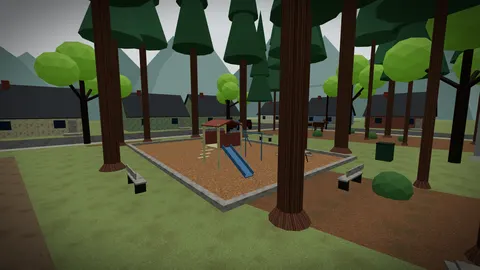
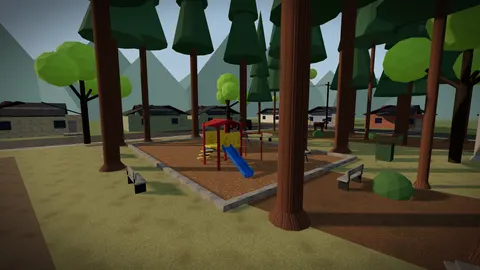
Moose from the owner's corner photos: cedar row along Arrow Dr, tire tunnel to the south-east as four separate tires, double birch and maroon sign, red/yellow play unit with two slides, dry winter ground, low hip roofs, clear winter light; fix the sun's position and shadows on every map
Claude-Session: https://claude.ai/code/session_013cEUyKFWfXQwnZSdKsgxWE

diff --git a/src/maps.js b/src/maps.js
@@ -611,9 +611,16 @@
       box(o, P(0, 0.76, 0), v3(0.9, 0.035, 0.38), 'oldWood', ry); for (const w of [-0.68, 0.68]) box(o, P(0, 0.45, w), v3(0.9, 0.03, 0.15), 'oldWood', ry);
       for (const u of [-0.65, 0.65]) for (const w of [-0.6, 0.6]) pipe(o, P(u, 0, w), P(u, 0.74, w * 0.3), 0.025, 'darkMetal'); };
     const house = (x, z, W, D, ry, col) => { const o = O('House', 'building', { tall: 6 }), c = Math.cos(ry), s = Math.sin(ry), P = (u, y, w) => v3(x + u * c + w * s, y, z - u * s + w * c), H = 2.9;
-      box(o, P(0, H / 2, 0), v3(W / 2, H / 2, D / 2), col, ry); const sq = D / 2 / Math.SQRT2; box(o, P(0, H, 0), v3(W / 2, sq, sq), col, ry, Math.PI / 4);   // the gable fill
-      const e = D / 2 + 0.5, dl = Math.hypot(e, e) / 2; for (const sgn of [-1, 1]) box(o, P(0, H + D / 2 - e / 2 + 0.05, sgn * e / 2), v3(W / 2 + 0.35, 0.07, dl), 'roofDark', ry, sgn * Math.PI / 4);
-      box(o, P(W * 0.25, H + D / 2 - 0.4, -0.6), v3(0.3, 0.9, 0.3), 'brick', ry);   // chimney
+      box(o, P(0, H / 2, 0), v3(W / 2, H / 2, D / 2), col, ry);
+      if (style.lowRoof) {   // Moose (the owner's photos, 2026-11-19): low single-storey ranch houses under a shallow hip roof (22°)
+        const th = 22 * Math.PI / 180, tn = Math.tan(th), rise = D / 2 * tn, L = D / 2 + 0.5, Le = D / 2 + 0.35;
+        box(o, P(0, H + rise * 0.3, 0), v3(W / 2 - D * 0.3, rise * 0.3, D * 0.3), col, ry);   // the attic fill, hidden under the roof
+        for (const sgn of [-1, 1]) box(o, P(0, H + rise - L / 2 * tn + 0.05, sgn * L / 2), v3(Math.max(0.5, W / 2 - D / 2 + Le / 2), 0.07, L / (2 * Math.cos(th))), 'roofDark', ry, sgn * th);
+        for (const sgn of [-1, 1]) box(o, P(sgn * (W / 2 - D / 2 + Le / 2), H + rise - Le / 2 * tn + 0.05, 0), v3(Le / (2 * Math.cos(th)), 0.07, D / 2 + 0.5), 'roofDark', ry, 0, -sgn * th);
+        box(o, P(W * 0.25, H + rise * 0.7, -0.6), v3(0.3, 0.7, 0.3), 'brick', ry);
+      } else { const sq = D / 2 / Math.SQRT2; box(o, P(0, H, 0), v3(W / 2, sq, sq), col, ry, Math.PI / 4);   // the gable fill
+        const e = D / 2 + 0.5, dl = Math.hypot(e, e) / 2; for (const sgn of [-1, 1]) box(o, P(0, H + D / 2 - e / 2 + 0.05, sgn * e / 2), v3(W / 2 + 0.35, 0.07, dl), 'roofDark', ry, sgn * Math.PI / 4);
+        box(o, P(W * 0.25, H + D / 2 - 0.4, -0.6), v3(0.3, 0.9, 0.3), 'brick', ry); }   // chimney
       for (const w of [-1, 1]) for (const u of [-W / 4, W / 4]) box(o, P(u, 1.6, w * (D / 2 + 0.02)), v3(0.6, 0.55, 0.02), 'glass', ry, 0, 0, { noCollide: true });
       box(o, P(-W / 2 + 1.2, 1.05, -(D / 2 + 0.03)), v3(0.45, 1.05, 0.03), 'oldWood', ry, 0, 0, { noCollide: true });
       box(o, P(-W / 2 + 1.2, 0.15, -(D / 2 + 0.9)), v3(1, 0.15, 0.8), 'oldWood', ry);   // a small deck at the door
@@ -640,10 +647,12 @@
     // ---- ground: the park's needle-covered floor, the two grass lanes (rotated), worn dirt paths, the streets, driveways
     zones.push({ shape: 'zone', mat: 'duff', c: v3(0, 0.004, 0), h: v3(PX, 0, PZ) });
     const lanes = [{ c: v3(-2, 0.005, -11), len: 47, w: 6.5, ry: 0.16 }, { c: v3(-4, 0.005, 9), len: 46, w: 8, ry: 0.21 }];
-    for (const L of lanes) zones.push({ shape: 'zone', mat: 'grass', c: L.c, h: v3(L.len, 0, L.w), ry: L.ry });
-    zones.push({ shape: 'zone', mat: 'grass', c: v3(-36, 0.005, 0), h: v3(9, 0, 12) });                       // open ground round the playground
+    for (const L of lanes) zones.push({ shape: 'zone', mat: 'dryGrass', c: L.c, h: v3(L.len, 0, L.w), ry: L.ry });   // dry, patchy winter lawn (the owner's photos, 2026-11-19)
+    zones.push({ shape: 'zone', mat: 'dryGrass', c: v3(-36, 0.005, 0), h: v3(9, 0, 12) });                       // open ground round the playground
     zones.push({ shape: 'zone', mat: 'path', c: v3(-4, 0.006, 6.5), h: v3(40, 0, 0.6), ry: 0.2 });           // the worn trail along the south lane
     zones.push({ shape: 'zone', mat: 'path', c: v3(10, 0.006, -9), h: v3(26, 0, 0.5), ry: 0.12 });
+    zones.push({ shape: 'zone', mat: 'leafLitter', c: v3(37, 0.0055, 15), h: v3(10, 0, 9) }); zones.push({ shape: 'zone', mat: 'leafLitter', c: v3(-40, 0.0055, -17), h: v3(6, 0, 6.5) });   // fallen leaves at the birch corners
+    zones.push({ shape: 'zone', mat: 'path', c: v3(38.4, 0.0062, 17.4), h: v3(4, 0, 2.6), ry: -0.45 });   // the bare dirt mound under the tires
     zones.push({ shape: 'zone', mat: 'woodchip', c: v3(-35, 0.007, 1), h: v3(8, 0, 5.5) });
     zones.push({ shape: 'zone', mat: 'asphalt', c: v3(0, 0.003, -30), h: v3(90, 0, 4) });                     // Arrow Dr
     zones.push({ shape: 'zone', mat: 'asphalt', c: v3(-52, 0.003, 0), h: v3(4, 0, 70) });                     // Park Dr
@@ -651,7 +660,7 @@
     const inLane = (x, z, pad = 0) => lanes.some(L => { const dx = x - L.c.x, dz = z - L.c.z, c = Math.cos(L.ry), s = Math.sin(L.ry), u = dx * c - dz * s, w = dx * s + dz * c; return Math.abs(u) < L.len + pad && Math.abs(w) < L.w + pad; });
     // ---- trees. Conifers: a flared trunk bare for the first few metres, then stacked drooping cones. Over/under under the
     // lowest boughs; slim trunks are poles to orbit. Flying into the middle of a crown hits it; brushing its edge does not.
-    const trees = [], houses = [], { conifer, birch, shade, picnic, house, truck } = natureKit(K, rr, rnd, trees, houses, { tall: true });
+    const trees = [], houses = [], { conifer, birch, shade, picnic, house, truck } = natureKit(K, rr, rnd, trees, houses, { tall: true, lowRoof: true });
     const clear = (x, z, d) => trees.every(t => Math.hypot(t.x - x, t.z - z) > d + t.r);
     const keepOut = [[-35, 1, 10.5], [-24, 8, 3.5], [36, -12, 4.5], [-41, -19, 4]];   // playground, the spawn, the tire tunnel, the sign
     const free = (x, z) => keepOut.every(([a, b, r]) => Math.hypot(x - a, z - b) > r);
@@ -679,36 +688,32 @@
     // the small multi-play unit: tan posts, a deck 1.2 m up under a faded red roof, steps on the west, a faded blue slide
     // east, and a short run of climbing bars on the north side
     together(() => { const cx = -31.6, cz = 3.4, D = 1.2, o = O('Play Unit', 'deco');
-      for (const [a, b] of [[-0.8, -0.8], [0.8, -0.8], [-0.8, 0.8], [0.8, 0.8]]) box(o, v3(cx + a, 1.3, cz + b), v3(0.055, 1.3, 0.055), 'playTan');
-      box(o, v3(cx, D, cz), v3(0.8, 0.04, 0.8), 'playTan');
+      for (const [a, b] of [[-0.8, -0.8], [0.8, -0.8], [-0.8, 0.8], [0.8, 0.8]]) box(o, v3(cx + a, 1.3, cz + b), v3(0.055, 1.3, 0.055), 'playRed');
+      box(o, v3(cx, D, cz), v3(0.8, 0.04, 0.8), 'playYellow');
       O('Under the Play Unit', 'gap', { gap: { c: v3(cx, D / 2, cz), n: v3(1, 0, 0), hu: 0.72, hv: D / 2 - 0.05, u: v3(0, 0, 1) } }); O('Under the Play Unit', 'gap', { gap: { c: v3(cx, D / 2, cz), n: v3(0, 0, 1), hu: 0.72, hv: D / 2 - 0.05, u: v3(1, 0, 0) } });
       const roof = O('Play Unit Roof', 'overunder', { obstacle: { a: v3(cx - 0.95, 0, cz), b: v3(cx + 0.95, 0, cz), under: 2.5, over: 2.85 } });
-      box(roof, v3(cx, 2.62, cz - 0.42), v3(0.95, 0.03, 0.5), 'fadedRed', 0, -0.35); box(roof, v3(cx, 2.62, cz + 0.42), v3(0.95, 0.03, 0.5), 'fadedRed', 0, 0.35);   // peaked (the tilts were the wrong way round: a V)
-      for (const s of [-1, 1]) box(o, v3(cx + s * 0.8, D + 0.45, cz), v3(0.03, 0.4, 0.75), 'fadedRed');   // side panels
-      for (let i = 0; i < 4; i++) box(o, v3(cx - 1.0 - i * 0.28, D - (i + 1) * 0.28 + 0.1, cz + 0.3), v3(0.14, 0.03, 0.42), 'playTan');   // steps down to the west
+      box(roof, v3(cx, 2.62, cz - 0.42), v3(0.95, 0.03, 0.5), 'playRed', 0, -0.35); box(roof, v3(cx, 2.62, cz + 0.42), v3(0.95, 0.03, 0.5), 'playRed', 0, 0.35);   // peaked (the tilts were the wrong way round: a V)
+      for (const s of [-1, 1]) box(o, v3(cx + s * 0.8, D + 0.45, cz), v3(0.03, 0.4, 0.75), 'playYellow');   // side panels
+      for (let i = 0; i < 4; i++) box(o, v3(cx - 1.0 - i * 0.28, D - (i + 1) * 0.28 + 0.1, cz + 0.3), v3(0.14, 0.03, 0.42), 'playYellow');   // steps down to the west
       const ang = 0.55, L = D / Math.sin(ang), sl = O('Slide', 'deco');
-      box(sl, v3(cx + 0.8 + Math.cos(ang) * L / 2, D / 2 + 0.04, cz + 0.3), v3(L / 2, 0.03, 0.26), 'fadedBlue', 0, 0, -ang);
-      for (const s of [-1, 1]) box(sl, v3(cx + 0.8 + Math.cos(ang) * L / 2, D / 2 + 0.16, cz + 0.3 + s * 0.27), v3(L / 2, 0.1, 0.02), 'fadedBlue', 0, 0, -ang);
-      bar('Climbing Bars', v3(cx - 0.8, 1.9, cz - 0.95), v3(cx - 0.8, 1.9, cz - 2.6), 0.03, 'fadedBlue'); bar('Climbing Bars', v3(cx + 0.8, 1.9, cz - 0.95), v3(cx + 0.8, 1.9, cz - 2.6), 0.03, 'fadedBlue');
-      const cb = O('Climbing Bars', 'deco'); for (const s of [-0.8, 0.8]) pipe(cb, v3(cx + s, 0, cz - 2.6), v3(cx + s, 1.9, cz - 2.6), 0.035, 'fadedBlue'); for (let i = 1; i < 6; i++) pipe(cb, v3(cx - 0.8, 1.9, cz - 0.95 - i * 0.28), v3(cx + 0.8, 1.9, cz - 0.95 - i * 0.28), 0.018, 'galv'); });
+      box(sl, v3(cx + 0.8 + Math.cos(ang) * L / 2, D / 2 + 0.04, cz + 0.3), v3(L / 2, 0.03, 0.26), 'slideBlue', 0, 0, -ang);
+      for (const s of [-1, 1]) box(sl, v3(cx + 0.8 + Math.cos(ang) * L / 2, D / 2 + 0.16, cz + 0.3 + s * 0.27), v3(L / 2, 0.1, 0.02), 'slideBlue', 0, 0, -ang);
+      box(sl, v3(cx - 0.8 - Math.cos(ang) * L / 2, D / 2 + 0.04, cz - 0.35), v3(L / 2, 0.03, 0.26), 'slideBlue', 0, 0, ang);   // the second slide, the other way (two blue slides, as now)
+      for (const s of [-1, 1]) box(sl, v3(cx - 0.8 - Math.cos(ang) * L / 2, D / 2 + 0.16, cz - 0.35 + s * 0.27), v3(L / 2, 0.1, 0.02), 'slideBlue', 0, 0, ang);
+      bar('Climbing Bars', v3(cx - 0.8, 1.9, cz - 0.95), v3(cx - 0.8, 1.9, cz - 2.6), 0.03, 'playRed'); bar('Climbing Bars', v3(cx + 0.8, 1.9, cz - 0.95), v3(cx + 0.8, 1.9, cz - 2.6), 0.03, 'playRed');
+      const cb = O('Climbing Bars', 'deco'); for (const s of [-0.8, 0.8]) pipe(cb, v3(cx + s, 0, cz - 2.6), v3(cx + s, 1.9, cz - 2.6), 0.035, 'playRed'); for (let i = 1; i < 6; i++) pipe(cb, v3(cx - 0.8, 1.9, cz - 0.95 - i * 0.28), v3(cx + 0.8, 1.9, cz - 0.95 - i * 0.28), 0.018, 'galv'); });
     // ---- picnic tables (wood on a dark metal frame), benches, bear-resistant bins, the park sign and a carved moose
     picnic(-29.2, -0.6, 0.1); picnic(-21, 5.5, 0.3); picnic(-9, -9, -0.2); picnic(12, 3.5, 0.15); picnic(26, -12.5, 0.4);
     // benches round the playground, 1.8 m outside its timber border, each facing in (owner, 2026-11-19: they stood in it)
     for (const [x, z, ry] of [[-39, 8.3, Math.PI], [-31, 8.3, Math.PI], [-37, -6.3, 0], [-25.2, 1, -Math.PI / 2], [4, -10.4, 0.15]]) { const b = O('Bench', 'deco'), c = Math.cos(ry), s = Math.sin(ry);
-      box(b, v3(x, 0.44, z), v3(0.9, 0.03, 0.2), 'oldWood', ry); box(b, v3(x - s * 0.18, 0.75, z - c * 0.18), v3(0.9, 0.12, 0.025), 'oldWood', ry); for (const u of [-0.7, 0.7]) box(b, v3(x + u * c, 0.22, z - u * s), v3(0.03, 0.22, 0.2), 'darkMetal', ry); }
-    for (const [x, z] of [[-25.6, -5.8], [-44.4, 7.9], [30.5, -9.5], [0, -23]]) { const b = O('Bear Bin', 'deco'); box(b, v3(x, 0.55, z), v3(0.42, 0.55, 0.38), 'binGreen'); box(b, v3(x, 1.13, z), v3(0.44, 0.04, 0.4), 'darkMetal'); }
-    { const sg = O('Park Sign', 'deco'), x = -41, z = -21.5; for (const s of [-1, 1]) pipe(sg, v3(x + s * 1.1, 0, z), v3(x + s * 1.1, 1.5, z), 0.09, 'oldWood');
-      box(sg, v3(x, 1.15, z), v3(1.35, 0.32, 0.05), 'mooseSign', 0, 0, 0, { sign: true }); box(sg, v3(x, 1.52, z), v3(1.5, 0.05, 0.14), 'oldWood'); }
+      box(b, v3(x, 0.44, z), v3(0.9, 0.03, 0.2), 'oldWood', ry); box(b, v3(x - s * 0.18, 0.75, z - c * 0.18), v3(0.9, 0.12, 0.025), 'oldWood', ry); for (const u of [-0.7, 0.7]) { box(b, v3(x + u * c, 0.22, z - u * s), v3(0.03, 0.22, 0.2), 'darkMetal', ry); box(b, v3(x + u * c - s * 0.2, 0.65, z - u * s - c * 0.2), v3(0.03, 0.22, 0.02), 'darkMetal', ry); } }   /* uprights hold the backrest (it floated over the seat) */
+    for (const [x, z] of [[-25.6, -5.8], [-44.4, 7.9], [30.5, -9.5], [0, -18.6]]) { const b = O('Bear Bin', 'deco'); box(b, v3(x, 0.55, z), v3(0.42, 0.55, 0.38), 'binGreen'); box(b, v3(x, 1.13, z), v3(0.44, 0.04, 0.4), 'darkMetal'); }
+    { const sg = O('Park Sign', 'deco'), x = -41, z = -21.5; for (const s of [-1, 1]) pipe(sg, v3(x + s * 0.64, 0, z), v3(x + s * 0.64, 2.35, z), 0.035, 'galv');   // two metal posts, a maroon and gold panel up high (the owner's photo)
+      box(sg, v3(x, 1.88, z - 0.05), v3(0.6, 0.4, 0.025), 'mooseSign', 0, 0, 0, { sign: true }); }
     { const m = O('Carved Moose', 'deco'), x = -38.2, z = -20.6;   // a chainsaw-carved cedar moose by the sign
       box(m, v3(x, 1.25, z), v3(0.8, 0.38, 0.32), 'carvedCedar'); for (const [a, b] of [[-0.6, -0.2], [-0.6, 0.2], [0.55, -0.2], [0.55, 0.2]]) pipe(m, v3(x + a, 0, z + b), v3(x + a, 0.95, z + b), 0.08, 'carvedCedar');
       pipe(m, v3(x + 0.7, 1.4, z), v3(x + 1.05, 1.75, z), 0.15, 'carvedCedar'); box(m, v3(x + 1.25, 1.65, z), v3(0.3, 0.13, 0.12), 'carvedCedar', 0, 0, -0.3);
       for (const s of [-1, 1]) box(m, v3(x + 1.0, 2.05, z + s * 0.38), v3(0.18, 0.04, 0.3), 'carvedCedar', s * 0.3, s * 0.5); }
-    // ---- the tire tunnel (east): four tractor tires half buried in a row among birch and bracken, a small sign post
-    together(() => { const x0 = 34.5, z = -12, R = 0.82, t = 0.24, o = O('Tire Tunnel', 'overunder', { obstacle: { a: v3(x0, 0, z - R), b: v3(x0 + 3, 0, z - R), under: R - t, over: R + t } });
-      for (let i = 0; i < 4; i++) { const x = x0 + i * 0.95 + (i === 2 ? 0.15 : 0); const N = 11, Rm = R - t / 2; for (let k = 0; k < N; k++) { const am = (k + 0.5) / N * Math.PI;   // a wide tread band, buried below the ground at both ends
-          box(o, v3(x, Math.sin(am) * Rm - 0.12, z + Math.cos(am) * Rm), v3(0.27, Math.PI * Rm / N / 2 + 0.02, t / 2), 'tireTread', 0, -am); } }
-      O('Tire Tunnel opening', 'gap', { gap: { c: v3(x0 + 1.45, 0.3, z), n: v3(1, 0, 0), hu: R - t - 0.05, hv: 0.3, u: v3(0, 0, 1) } });
-      const sp = O('Sign Post', 'pole'); pipe(sp, v3(x0 + 2.5, 0, z - 1.6), v3(x0 + 2.5, 1.6, z - 1.6), 0.04, 'galv'); box(sp, v3(x0 + 2.5, 1.55, z - 1.6), v3(0.16, 0.16, 0.01), 'signWhite', 0, 0, 0, { noCollide: true }); });
     // ---- round the edges: Arrow Dr and Park Dr with houses across them, back fences and houses east and south, wooden
     // power poles, a few parked pickups
     const colors = ['houseSage', 'houseTan', 'houseBlue', 'houseCream', 'houseRed'];
@@ -733,6 +738,25 @@
         for (const [y, a, L] of [[9, 0.4, 1.4], [12.5, 2.6, 1.0], [15, 4.4, 1.6], [18, 1.5, 0.9]]) pipe(o, v3(x, y, z), v3(x + Math.cos(a) * L, y + L * 0.35, z + Math.sin(a) * L), 0.05, 'snagWood', { noSurvey: true });
         trees.push({ x, z, r: 1 }); } }
       for (const [x, z, h] of [[-47.5, 9.5, 11], [-22.5, -8.5, 12], [-46.5, -8.0, 10], [-19.5, 3.5, 11], [-10, 12.5, 12], [6, -21, 11], [20, 10.5, 12], [-2, 16, 10]]) if (clear(x, z, 1.0)) N2.shade(x, z, h); }
+    // ---- after the owner's photos from the four corners (2026-11-19). The roads make an L round the north-west corner (Arrow Dr
+    // along the long north side, Park Dr along the short west side). Along Arrow Dr a straight row of big redcedars whose crowns
+    // touch; the tire tunnel is in the far south-east corner, four tires as separate half-buried arches on a dirt mound under
+    // the birches; a double birch stands by the sign. The trees that stood where these go are taken out (the grove's random
+    // draws are unchanged, so every other tree keeps its place).
+    { const gone = (x, z) => (z < -19.6 && x > -37 && x < 47) || Math.hypot(x - 38.4, z - 17.4) < 4.6 || Math.hypot(x + 43.6, z + 19.2) < 1.6;
+      const at = o => { const v = o.vis[0]; return v ? (v.a || v.c) : o.gap ? o.gap.c : null; };
+      for (const o of K.objs) { if (o.removed || !/^(Cedar|Hemlock|Birch|Split Birch|Split Birch opening|Maple|Shrub|Bracken|Stump|Mossy Log)$/.test(o.name) || o.grp != null) continue;
+        const c = at(o); if (!c || !gone(c.x, c.z)) continue; o.prims = []; o.vis = []; delete o.obstacle; delete o.round; delete o.gap; o.kind = 'deco'; o.removed = true; }
+      for (let i = trees.length - 1; i >= 0; i--) if (gone(trees[i].x, trees[i].z)) trees.splice(i, 1);
+      let sd = 3141; const r3 = () => { sd = (sd * 1664525 + 1013904223) >>> 0; return sd / 4294967296; }, g3 = (a, b) => a + (b - a) * r3();
+      const row = natureKit(K, g3, r3, trees, houses, {});   // full, low crowns: the roadside cedars' boughs come down to 4-6 m
+      for (let x = -34; x <= 44; x += g3(5.2, 6.2)) { const z = -22.2 + g3(-0.4, 0.4); if (trees.some(t => Math.hypot(t.x - x, t.z - z) < 2.4)) continue; row.conifer(x, z, g3(26, 33), g3(0.45, 0.6), 'cedar'); }
+      row.birch(-43.6, -19.2, 13, true);   // the double birch by the sign
+      together(() => { const R = 0.82, t = 0.24, Rm = R - t / 2, N = 11;   // the tire tunnel: four tractor tires, each its own arch
+        for (const [x, z] of [[36.2, 16.0], [37.9, 16.15], [39.5, 17.6], [40.9, 19.3]]) { const o = O('Tire', 'overunder', { obstacle: { a: v3(x - 0.3, 0, z), b: v3(x + 0.3, 0, z), under: R - t, over: R + t } });
+          for (let k = 0; k < N; k++) { const am = (k + 0.5) / N * Math.PI; box(o, v3(x, Math.sin(am) * Rm - 0.12, z + Math.cos(am) * Rm), v3(0.27, Math.PI * Rm / N / 2 + 0.02, t / 2), 'tireTread', 0, -am); }
+          O('Tire opening', 'gap', { gap: { c: v3(x, 0.18, z), n: v3(1, 0, 0), hu: 0.25, hv: 0.15, u: v3(0, 0, 1) } }); }   // inside the arch (its inner edge is 0.58 m round a centre 0.12 m underground)
+        const sp = O('Sign Post', 'pole'); pipe(sp, v3(37, 0, 13.9), v3(37, 1.6, 13.9), 0.04, 'galv'); box(sp, v3(37, 1.55, 13.9), v3(0.16, 0.16, 0.01), 'signWhite', 0, 0, 0, { noCollide: true }); }); }
     return K.done({ id: 'moose', title: 'Moose Knuckle Park', theme: 'pnw', zones, spawn: { pos: v3(-24, 0.03, 8), yaw: -1.4 }, bounds: { x: [-75, 75], z: [-55, 50] } });
   }
 

diff --git a/src/worldview.js b/src/worldview.js
@@ -323,20 +323,26 @@ function mats() {
     TX.woodchip = T('#7b5638', ['#a07450', '#5a3c26', '#8e6a4a', '#c09068'], 9000, 2, 5, 0.6);
     TX.path = T('#6e5a46', ['#5a4836', '#857059', '#4a3c30'], 9000, 1, 3, 0.5, 'rgba(40,30,20,A)');
     TX.gravel = T('#8a8478', ['#a39c90', '#6a655c', '#c0b8a8'], 12000, 1, 3, 0.6);
+    TX.dryGrass = T('#8a8152', ['#9e9060', '#6f7044', '#7a6548', '#b0a070', '#5f6a3e'], 16000, 1, 3, 0.55, 'rgba(100,80,50,A)');   // winter lawn: dry, patchy, bare dirt showing
+    TX.leafLitter = T('#4e3a2a', ['#7a5634', '#5e4228', '#2e2018', '#8e6a3e', '#a8925e', '#3e4a26'], 9000, 3, 7, 0.7, 'rgba(40,50,30,A)');   // fallen birch and cottonwood leaves on moss
     TX.cedarBark = (() => { [c, g] = cnv(128, 256); g.fillStyle = '#6a4434'; g.fillRect(0, 0, 128, 256); for (let i = 0; i < 70; i++) { g.fillStyle = ['rgba(40,24,16,0.55)', 'rgba(150,110,85,0.35)', 'rgba(90,60,45,0.5)'][i % 3]; g.fillRect(rnd() * 128, 0, 1 + rnd() * 4, 256); } return tex(c); })();
     TX.birchBark = (() => { [c, g] = cnv(128, 256); g.fillStyle = '#ddd8cc'; g.fillRect(0, 0, 128, 256); for (let i = 0; i < 60; i++) { g.fillStyle = 'rgba(30,28,26,' + (0.4 + rnd() * 0.5) + ')'; g.fillRect(rnd() * 128, rnd() * 256, 4 + rnd() * 18, 1 + rnd() * 3); } return tex(c); })();
     TX.oldWood = T('#8c8278', ['#6e655c', '#a69c90', '#5a524a'], 6000, 1, 2, 0.4, 'rgba(50,45,40,A)');
     TX.tireTread = (() => { [c, g] = cnv(64, 256); g.fillStyle = '#1e1e1e'; g.fillRect(0, 0, 64, 256); g.fillStyle = '#0c0c0c'; for (let y = 0; y < 256; y += 16) { g.fillRect(0, y, 28, 8); g.fillRect(36, y + 8, 28, 8); } return tex(c); })();
-    TX.mooseSign = (() => { [c, g] = cnv(512, 128); g.fillStyle = '#5a3a24'; g.fillRect(0, 0, 512, 128); speckle(g, 512, 128, 3000, ['#3e2818', '#7a5434'], 1, 3, 0.4); g.strokeStyle = '#3a2416'; g.lineWidth = 8; g.strokeRect(6, 6, 500, 116);
-      g.fillStyle = '#e8c766'; g.font = 'bold 50px Georgia, serif'; g.textAlign = 'center'; g.textBaseline = 'middle'; g.fillText('MOOSE KNUCKLE PARK', 256, 56); g.font = '20px Georgia, serif'; g.fillText('City of Revelstoke · open dawn to dusk', 256, 100); const t2 = tex(c); t2.wrapS = t2.wrapT = THREE.ClampToEdgeWrapping; return t2; })();
+    TX.mooseSign = (() => { [c, g] = cnv(512, 340); g.fillStyle = '#6a262a'; g.fillRect(0, 0, 512, 340); speckle(g, 512, 340, 2500, ['#521c20', '#7e3236'], 1, 3, 0.35);   // maroon with a gold border and a moose emblem (the owner's photo, 2026-11-19)
+      g.strokeStyle = '#d8b25a'; g.lineWidth = 10; g.strokeRect(10, 10, 492, 320); g.lineWidth = 3; g.strokeRect(24, 24, 464, 292);
+      g.fillStyle = '#e2bf66'; g.textAlign = 'center'; g.textBaseline = 'middle'; g.font = 'bold 50px Georgia, serif'; g.fillText('MOOSE KNUCKLE', 256, 70); g.font = 'bold 42px Georgia, serif'; g.fillText('PARK', 256, 118);
+      g.beginPath(); g.arc(256, 200, 46, 0, Math.PI * 2); g.fill(); g.fillStyle = '#6a262a';   // the emblem: a plain moose silhouette in a gold disc
+      g.fillRect(222, 196, 62, 22); g.fillRect(226, 216, 7, 22); g.fillRect(272, 216, 7, 22); g.fillRect(278, 178, 14, 26); g.fillRect(286, 190, 18, 12); g.fillRect(266, 168, 30, 7); g.fillRect(266, 160, 6, 10); g.fillRect(288, 160, 6, 10);
+      g.fillStyle = '#e2bf66'; g.font = '24px Georgia, serif'; g.fillText('1625 Arrow Dr', 256, 284); const t2 = tex(c); t2.wrapS = t2.wrapT = THREE.ClampToEdgeWrapping; return t2; })();
     const P = (hex, o = {}) => std(T(hex, ['#ffffff', '#000000', '#5a4a3a'], 2500, 1, 2, 0.12, 'rgba(70,60,50,A)'), { roughness: 0.75, metalness: 0.1, ...o });
-    for (const k of ['grass', 'duff', 'woodchip', 'path', 'gravel']) MAT[k] = std(TX[k], { roughness: 0.95 });
+    for (const k of ['grass', 'duff', 'woodchip', 'path', 'gravel', 'dryGrass', 'leafLitter']) MAT[k] = std(TX[k], { roughness: 0.95 });
     MAT.cedarBark = std(TX.cedarBark, { roughness: 0.95 }); MAT.birchBark = std(TX.birchBark, { roughness: 0.8 }); MAT.oldWood = std(TX.oldWood, { roughness: 0.9 });
     MAT.fenceWood = std(TX.oldWood, { roughness: 0.9, color: 0xb59a7a }); MAT.polewood = std(TX.cedarBark, { color: 0x9a8a78 }); MAT.carvedCedar = std(TX.wood, { color: 0xc89a70, roughness: 0.9 }); MAT.mossLog = std(TX.cedarBark, { color: 0x8a9a62 });
     MAT.tireTread = std(TX.tireTread, { roughness: 0.95 }); MAT.mooseSign = std(TX.mooseSign, { roughness: 0.8 });
     const leaf = (col) => new THREE.MeshStandardMaterial({ color: col, roughness: 0.95, flatShading: true, emissive: col, emissiveIntensity: 0.28 });   // a little light through the needles: the undersides were black (owner, 2026-11-19)
     MAT.cedarLeaf = leaf(0x2c4630); MAT.hemlockLeaf = leaf(0x34503a); MAT.mapleLeaf = leaf(0x6c9434); MAT.snagWood = new THREE.MeshStandardMaterial({ color: 0x8c8780, roughness: 0.95 }); MAT.birchLeaf = leaf(0x7a8a3c); MAT.shrub = leaf(0x3b5430); MAT.bracken = leaf(0x8a5a30);
-    MAT.fadedBlue = P('#4f7090'); MAT.fadedRed = P('#8a4c3e'); MAT.playTan = P('#bca67a'); MAT.darkMetal = P('#3a3c3a', { metalness: 0.4 }); MAT.binGreen = P('#3d5a44', { metalness: 0.3 });
+    MAT.fadedBlue = P('#4f7090'); MAT.fadedRed = P('#8a4c3e'); MAT.playTan = P('#bca67a'); MAT.playRed = P('#a8322c'); MAT.playYellow = P('#d8b234'); MAT.slideBlue = P('#2f63b4', { roughness: 0.5 });   /* the play unit as it is now: red and yellow, two blue slides */ MAT.darkMetal = P('#3a3c3a', { metalness: 0.4 }); MAT.binGreen = P('#3d5a44', { metalness: 0.3 });
     MAT.signWhite = new THREE.MeshStandardMaterial({ color: 0xe6e4dc, roughness: 0.6 });
     MAT.houseSage = P('#8a9476'); MAT.houseTan = P('#b3a486'); MAT.houseBlue = P('#7c8c9a'); MAT.houseCream = P('#d2c8ae'); MAT.houseRed = P('#8e5a4a'); MAT.roofDark = P('#3c3d40', { roughness: 0.9 });
     MAT.truckRed = P('#7e2e28', { metalness: 0.5, roughness: 0.4 }); MAT.truckGrey = P('#8a8e90', { metalness: 0.5, roughness: 0.4 }); MAT.truckBlue = P('#34485e', { metalness: 0.5, roughness: 0.4 }); }
@@ -549,14 +555,16 @@ function buildScene() {
   if (VAPOR) vaporBackdrop(); else if (VICE_) viceBackdrop(); else if (DUSK_) duskBackdrop(); else {
   // sky
   const [sc, sg] = cnv(16, 512); const gr = sg.createLinearGradient(0, 0, 0, 512);
-  if (PNW) { gr.addColorStop(0, '#9fb0bf'); gr.addColorStop(0.42, '#d2dbe1'); gr.addColorStop(0.6, '#e8ecec'); gr.addColorStop(0.72, '#b8c0b8'); gr.addColorStop(1, '#5a6452'); }   // a bright, flat overcast (the owner's video, 2026-11-19)
+  if (PNW) { gr.addColorStop(0, '#4f86c6'); gr.addColorStop(0.42, '#8fb6dc'); gr.addColorStop(0.6, '#cfe0ec'); gr.addColorStop(0.72, '#b4c2c4'); gr.addColorStop(1, '#5a6452'); }   // clear winter blue (the owner's photos, 2026-11-19)
   else { gr.addColorStop(0, '#5f86b3'); gr.addColorStop(0.45, '#a9b9c7'); gr.addColorStop(0.62, '#e7c49a'); gr.addColorStop(0.75, '#d99a6c'); gr.addColorStop(1, '#6e5a4a'); }
   sg.fillStyle = gr; sg.fillRect(0, 0, 16, 512); const skyT = new THREE.CanvasTexture(sc); skyT.colorSpace = THREE.SRGBColorSpace;
   const sky = new THREE.Mesh(new THREE.SphereGeometry(300, 24, 16), new THREE.MeshBasicMaterial({ map: skyT, side: THREE.BackSide, fog: false, depthWrite: false }));
   playRoot.add(sky);
   // lights
-  playRoot.add(new THREE.HemisphereLight(IND ? 0xdfe6f0 : PNW ? 0xc6d6e2 : 0xa9c0e0, IND ? 0x6a645a : PNW ? 0x6e7454 : 0x5a4532, IND ? 1.9 : PNW ? 2.7 : 0.9));   // Moose: brighter sky fill and ground bounce, so the shade under the cedars stays readable for trippies (owner, 2026-11-19)
-  const sun = new THREE.DirectionalLight(PNW ? 0xf4f2ec : 0xffcf98, PNW ? 1.25 : 2.6);   // Moose: overcast: most light from the sky, faint shadows if (PNW) sun.position.set(-18, 40, 14); else sun.position.set(-30, 22, 18); sun.castShadow = true;
+  playRoot.add(new THREE.HemisphereLight(IND ? 0xdfe6f0 : PNW ? 0xb8cfe6 : 0xa9c0e0, IND ? 0x6a645a : PNW ? 0x74684e : 0x5a4532, IND ? 1.9 : PNW ? 2.1 : 0.9));   // Moose: brighter sky fill and ground bounce, so the shade under the cedars stays readable for trippies (owner, 2026-11-19)
+  // Moose: a clear winter afternoon, low sun from the south-west (the owner's photos from the four corners, 2026-11-19)
+  const sun = new THREE.DirectionalLight(PNW ? 0xffe2bc : 0xffcf98, PNW ? 2.7 : 2.6);
+  if (PNW) sun.position.set(-26, 17, 30); else sun.position.set(-30, 22, 18); sun.castShadow = true;   /* (a comment ending the line above once swallowed this: no sun position or shadows on any map) */
   sun.shadow.mapSize.set(2048, 2048); const sh = sun.shadow.camera; { const B = world.bounds || { x: [-32, 32], z: [-32, 32] }, R = Math.max(32, ...B.x.map(Math.abs), ...B.z.map(Math.abs)) + 4; if (world.id === 'playground') { sh.left = -56; sh.right = 32; } else { sh.left = -R; sh.right = R; sh.top = R; sh.bottom = -R; if (R > 48) sun.shadow.mapSize.set(4096, 4096); } if (world.id === 'playground') { sh.top = 32; sh.bottom = -32; } sh.far = Math.max(120, R * 2.6); } sh.near = 1; sun.shadow.bias = -0.0004; sun.shadow.normalBias = 0.02;
   playRoot.add(sun); playRoot.add(sun.target);
   // ground
@@ -578,7 +586,7 @@ function buildScene() {
   if (VAPOR || VICE_ || DUSK_) return;
   // lamp lights
   if (IND) scene.fog = new THREE.Fog(0x24252b, 30, 140);
-  if (PNW) { scene.fog = new THREE.Fog(0xc8d0cc, 50, 200); pnwBackdrop(); }
+  if (PNW) { scene.fog = new THREE.Fog(0xc6d4de, 60, 220); pnwBackdrop(); }
   // lamp lights are made with the objects (buildObjects)
   if (world.id !== 'playground') return;   // the skyline and power lines are the playground's own surroundings
   // skyline beyond the fence (no collision)

diff --git a/tools/map_thumbs.py b/tools/map_thumbs.py
@@ -36,11 +36,11 @@ EXTRA = {
     'ship-rail':    ('ship', [36, 9.5, 4], [47, 6.5, 0]),
     'ship-roof':    ('ship', [-34, 21, 12], [-10, 17.5, -2]),
     'clappy-underpass': ('clappy', [18.5, 1.6, 6], [18, 2.6, -6]),
-    #'moose-play':   ('moose', [-24, 2.2, 9], [-34, 1.2, 0]),
-    #'moose-lane':   ('moose', [-30, 2.0, 9], [10, 3, -2]),
-    #'moose-tires':  ('moose', [30, 1.6, -8], [36, 0.5, -12]),
-    #'moose-sign':   ('moose', [-36, 2.0, -15], [-40, 1.2, -21]),
-    #'moose-high':   ('moose', [-60, 30, 40], [0, 0, -5]),
+    'moose-c1':     ('moose', [45, 1.6, -21], [-20, 4, -21]),     # the owner's corner photos (2026-11-19): NE, along Arrow Dr
+    'moose-c2':     ('moose', [43, 1.3, 23], [32, 1.5, 12]),    # SE, over the tires
+    'moose-c3':     ('moose', [-45.5, 1.6, -23.5], [-34, 1.6, -10]),  # NW, the sign and the double birch
+    'moose-c4':     ('moose', [-45, 1.6, 22.5], [-30, 2, 0]),      # SW, toward the playground
+    'moose-play':   ('moose', [-27, 2.2, 7], [-33, 1.2, 2]),
     #'clappy-stairs': ('clappy', [3, 4, 3.5], [11, 3, -3.5]),
     #'clappy-beams':  ('clappy', [3, 2.2, 13], [0, 0.8, 9.5]),
     #'clappy-tower':  ('clappy', [-1, 4, -1], [-6, 2.5, -5]),

diff --git a/CLAUDE.md b/CLAUDE.md
@@ -291,6 +291,18 @@ maples stand among the cedars (`mapleLeaf` 0x6c9434), a Dead Snag (a bare 22 m p
 last with their own seed (`sd = 9119`) so the rest of the map is unchanged; black bucket swing seats; a chunkier curb; a bright
 flat overcast (sky whiter, hemisphere 2.7, sun 1.25: faint shadows; fog 0xc8d0cc). Next with real data: a Blackbox log from the
 same pack, labels for the clip's tricks (big flips ~0 / 9 / 37 / 77 s, rolls ~29-31 / 63-65 s, yaw-heavy turns ~26-30 s).
+**Moose after the owner's photos from the four corners** (2026-11-19, "only one version of Moose"): the roads make an L round
+the north-west corner (Arrow Dr along the long north side, Park Dr along the short west side). Added last in `buildMoose` (seed
+3141): a straight row of big redcedars along Arrow Dr with low, touching crowns (a natureKit without `tall`); the **tire
+tunnel moved to the far south-east corner**, four separate half-buried tires (each `Tire` with its own `Tire opening` gap, inside
+the arch) on a bare dirt mound; a Split Birch by the park sign. Grove trees standing where these go are emptied (removed, as a
+layout removal does), so the rest of the grove keeps its place. The sign is a maroon and gold panel with a moose emblem on two
+metal posts; the Play Unit is red and yellow with two blue slides (`playRed`, `playYellow`, `slideBlue`); the lanes are dry
+winter grass (`dryGrass`), leaf litter at the birch corners (`leafLitter`); houses have shallow hip roofs (`natureKit` style
+`lowRoof`); bench backrests have uprights; the carved moose stays (the owner loves it). Light: a clear winter afternoon (blue
+sky, low warm sun from the south-west, long shadows). `tools/map_thumbs.py --extra --only=moose` shoots the four corners.
+**Sun fix**: a comment ending a line in worldview.js had swallowed the line that places the sun and turns on its shadows, on
+every map, since the morning of 2026-11-19; restored.
 **Wall art** (2026-11-19): the Rogue Monkey FPV, FPV Your World and RidgeRipper FPV logos (`assets/graffiti/roguemonkey`,
 `fpvyourworld`, `ridgeripper`; their makers' marks, at the owner's request, for this game only; credited on the main menu and in
 the README) are in the rotation for graffiti walls (`turn()` in worldview.js; wide logos painted smaller: `AH`), on Clappy's
